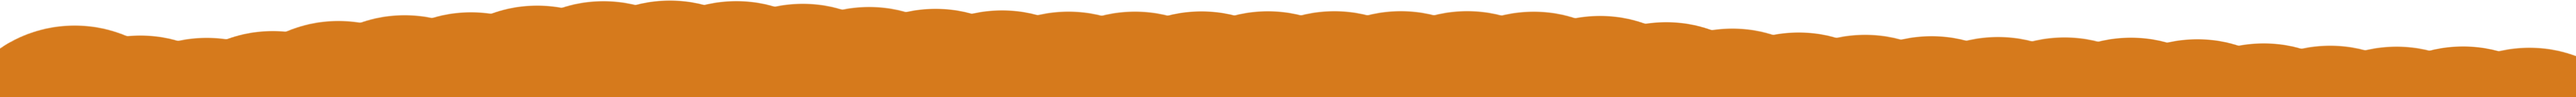
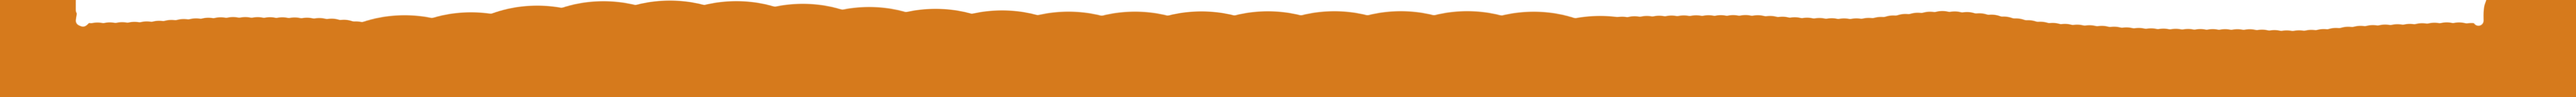
Page Accueil Terminé

Changed region(s): [[0.6249, 0.0, 1.0, 0.5851], [0.0, 0.0, 0.1562, 0.4521]]

diff --git a/resources/views/welcome.blade.php b/resources/views/welcome.blade.php
@@ -43,12 +43,12 @@
 
                 <div class="logo" style="text-align: center; margin-bottom: 15%;">
                     <img src="images/todoteam2.png" alt="logo" height="260 px" style="margin-top:5%;">
-                    <h1 style="margin-top:4%">Plus qu'un travail. C'est une manière de travailler ensemble.</h1>
+                    <h1 style="margin-top:4%"; text-decoration>Plus qu'un travail. C'est une manière de travailler ensemble.</h1>
                     <h3 style=margin-left:20%;margin-right:20%>Démarrez avec un tableau, des listes et des cartes Trello. Personnalisez et ajoutez d'autres fonctionnalités à mesure que le travail de votre équipe s'élargit. Gérez des projets, organisez des tâches et développez l'esprit d'équipe, le tout au même endroit.</h3>
                     <br><br><br>
 
 
-                    <div class="listcolumn" style="display:flex;justify-content: space-evenly;padding-right: 20%;padding-left: 20%;gap: 9%;text-align: center; background-image: url('../images/fondrouge.png');">
+                    <div class="listcolumn" style="display:flex;justify-content: space-evenly;padding-right: 20%;padding-left: 20%;gap: 9%;text-align: center; background-color:rgba(255, 166, 0, 0.075);">
                         <div class="colummn1">
                             <h1>Fonctionnalités conçues pour aider votre équipe à réussir</h1>
                             <p>Pour soutenir une équipe productive, il faut un outil puissant (et plein d'en-cas). Qu'il s'agisse de réunions, de projets, d'événements ou encore de la définition d'objectifs, les fonctionnalités intuitives de Trello permettent à n'importe quelle équipe de configurer et de personnaliser rapidement des flux de production pour à peu près tout.</p>
@@ -65,6 +65,7 @@
 
                     <div class="container py-3"> <div class="row"> <div class="col-lg-8 d-lg-flex flex-row-reverse text-center align-items-center"> <p class="mb-2 mb-lg-0">Bientôt disponible.</p> </div> <div class="col-6 col-md-3 offset-md-3 offset-lg-0 col-lg-2 pr-1">  <img src="https://d2k1ftgv7pobq7.cloudfront.net/meta/p/res/images/spirit/apps/0b6d7bcb7ee4c84ef5e8141269925e9a/apple.svg" alt="Disponible sur l'App&nbsp;Store" class="w-100 img-fluid" width="217" height="64"> </a> </div> <div class="col-6 col-md-3 col-lg-2 pl-1">  <img src="https://d2k1ftgv7pobq7.cloudfront.net/meta/p/res/images/spirit/apps/c3a2a289499157072145f1bd73d7610d/google.svg" alt="Téléchargez-les sur Google&nbsp;Play" class="w-100 img-fluid" width="217" height="64"> </a> </div> </div> </div>
                 </div>
+                <img src="/images/orangeU.png" style="position:absolute; width:100%;bottom:99%">
                 <img src="/images/orangeD.png" style="position:absolute; width:100%;top:100%">
                 <img src="/images/orangeL.png" style="position:absolute; height:100%;right:96%">
                 <img src="/images/orangeR.png" style="position:absolute; height:100%;left:96%">

diff --git a/resources/views/auth/login.blade.php b/resources/views/auth/login.blade.php
@@ -74,5 +74,5 @@
         </div>
     </div>
 </div>
-<img src="images/fondbleu.png" style="width: -webkit-fill-available"
+<img src="images/fondorangef.png" style="width: -webkit-fill-available"
 @endsection

diff --git a/resources/views/auth/register.blade.php b/resources/views/auth/register.blade.php
@@ -60,6 +60,6 @@
     </form>
 </div>
 
-<img src="images/fondvert.png" style="width: -webkit-fill-available"
+<img src="images/fondorange.png" style="width: -webkit-fill-available"
 
 @endsection
